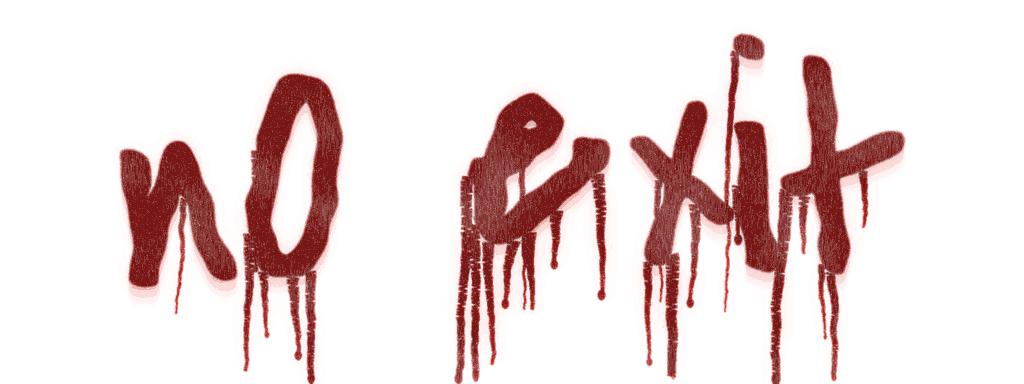
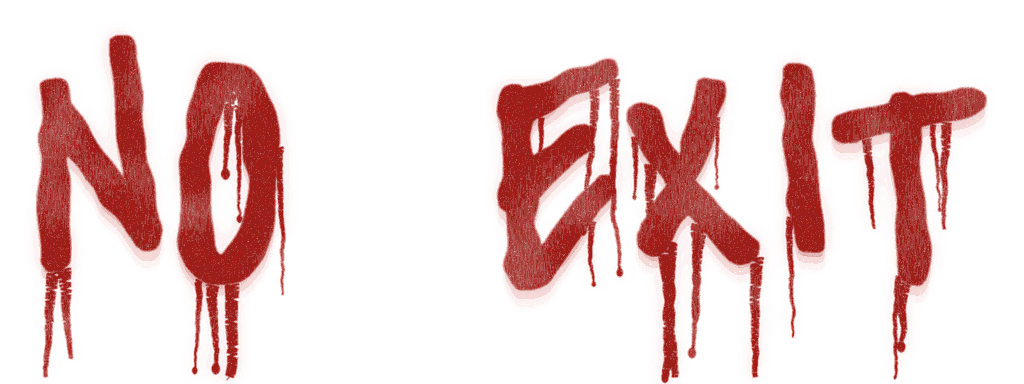
Kymlinge Station: cold teal look, wet floor, litter and puddles, readable red graffiti
- Colour: teal fog and ambient light, cooler tubes and mist, soft-light
  grade over the view, exit-sign light shifted from green to teal
- Floor: wet concrete sheen; torn dirty paper, crumpled balls and cans in
  most cells (instanced), dark glossy puddles that catch the lights
- Red graffiti: regenerated in upper case with thicker strokes and a
  brighter red, 20% larger on the wall and faintly self-lit
- Name plates no longer cover graffiti

Claude-Session: https://claude.ai/code/session_01Ufeu32NHvdoiceaeLe6DXJ

diff --git a/kymlinge-station/index.html b/kymlinge-station/index.html
@@ -103,6 +103,8 @@ h1 {
 @media (max-width: 560px) { .view { aspect-ratio: 3 / 4; } }
 #gl { position: absolute; inset: 0; }
 #gl canvas { display: block; width: 100%; height: 100%; }
+#grade { position: absolute; inset: 0; pointer-events: none; mix-blend-mode: soft-light;
+  background: radial-gradient(ellipse at 50% 40%, rgba(120,200,230,0.28), rgba(10,40,60,0.55) 70%, rgba(0,12,20,0.75)); }
 .lid {
   position: absolute; inset: 0; pointer-events: none; opacity: 0;
   background: radial-gradient(ellipse at center, #1c0605 0%, #000 78%);
@@ -188,6 +190,7 @@ h1 {
   <div class="stage" id="stage">
     <div class="view" id="view">
       <div id="gl"></div>
+      <div id="grade"></div>
       <div class="vig" id="vig"></div>
       <div class="lid" id="lid"></div>
       <div class="dir" id="dir" aria-hidden="true"><i id="dirArrow"></i><span>It</span></div>
@@ -259,19 +262,20 @@ Look at it to freeze it. Back away to win some distance.</p>
   } catch (e) { fail("This browser could not start WebGL."); return; }
   renderer.setPixelRatio(Math.min(window.devicePixelRatio || 1, 1.5));
   renderer.outputEncoding = THREE.sRGBEncoding;
-  renderer.setClearColor(0x000000);
+  renderer.setClearColor(0x02080b);
   el.gl.appendChild(renderer.domElement);
 
   var scene = new THREE.Scene();
-  scene.fog = new THREE.FogExp2(0x030504, 0.125);
+  var FOG_COL = 0x0d222a, FOG_DEN = 0.095, AMB_COL = 0x1d3846, AMB_K = 0.75;   // cold teal haze
+  scene.fog = new THREE.FogExp2(FOG_COL, FOG_DEN);
   var camera = new THREE.PerspectiveCamera(72, 16 / 9, 0.1, 60);
   camera.rotation.order = "YXZ";
   scene.add(camera);
-  var ambLight = new THREE.AmbientLight(0x101614, 0.4); scene.add(ambLight);
+  var ambLight = new THREE.AmbientLight(AMB_COL, AMB_K); scene.add(ambLight);
 
   var pool = [];
   for (var li = 0; li < 8; li++) {
-    var pl = new THREE.PointLight(0x2bff88, 2.2, 13, 1.6);
+    var pl = new THREE.PointLight(0x36d6c8, 2.2, 13, 1.6);
     pl.position.set(0, -50, 0); scene.add(pl); pool.push(pl);
   }
 
@@ -360,7 +364,7 @@ Look at it to freeze it. Back away to win some distance.</p>
   }
   var wallTex = sheetTex(TEXDATA.wall, true), floorTex = sheetTex(TEXDATA.floor, true), ceilTex = sheetTex(TEXDATA.ceil, true), woodTex = sheetTex(TEXDATA.wood, false);
   var wallMat = new THREE.MeshStandardMaterial({ map: wallTex, color: 0x626262, roughness: 0.92, metalness: 0 });
-  var floorMat = new THREE.MeshStandardMaterial({ map: floorTex, color: 0x5e5e5e, roughness: 0.42, metalness: 0.18 });
+  var floorMat = new THREE.MeshStandardMaterial({ map: floorTex, color: 0x56605f, roughness: 0.26, metalness: 0.32 });   // wet concrete
   var ceilMat = new THREE.MeshStandardMaterial({ map: ceilTex, roughness: 1, metalness: 0 });
   var woodMat2 = new THREE.MeshStandardMaterial({ map: woodTex, roughness: 0.9, emissive: 0x0d0805 });
   var redLampMat = new THREE.MeshBasicMaterial({ color: 0xff3a22 });
@@ -384,7 +388,10 @@ Look at it to freeze it. Back away to win some distance.</p>
     if (!grafCache[key]) {
       var t = texLoader.load("graffiti/" + key + ".png");
       t.encoding = THREE.sRGBEncoding; t.anisotropy = 4;
-      grafCache[key] = new THREE.MeshStandardMaterial({ map: t, transparent: true, roughness: 1, depthWrite: false, polygonOffset: true, polygonOffsetFactor: -2 });
+      var red = paint === "blood";
+      // red paint gets a faint glow of its own so it stays readable in the dark
+      grafCache[key] = new THREE.MeshStandardMaterial({ map: t, transparent: true, roughness: red ? 0.6 : 1, depthWrite: false, polygonOffset: true, polygonOffsetFactor: -2,
+        emissive: red ? 0xffffff : 0x000000, emissiveMap: red ? t : null, emissiveIntensity: red ? 0.32 : 0 });
     }
     return grafCache[key];
   }
@@ -836,7 +843,7 @@ Look at it to freeze it. Back away to win some distance.</p>
     [-0.8, 0.8].forEach(function (o) { addBox(g, benchMat, 0.06, 0.45, 0.4, bx, 0.22, zc + o); });
     blockers.push({ x0: 3.0, x1: 5.95, z0: zA, z1: zB });
     blockers.push({ x0: bx - 0.35, x1: bx + 0.45, z0: zc - 1.0, z1: zc + 1.0 });
-    lightSrc.push({ x: 5.0, y: 2.7, z: zc, c: 0xcfe6df, k: 1.5, dist: 11, tube: true });
+    lightSrc.push({ x: 5.0, y: 2.7, z: zc, c: 0xa8dcf0, k: 1.7, dist: 11, tube: true });
     startBench = { x: bx, z: zc };
     levelGroup.add(g);
   }
@@ -1055,8 +1062,8 @@ Look at it to freeze it. Back away to win some distance.</p>
   function leaveCity() {
     if (!cityMode) return;
     cityMode = false; camY = 0; if (cityGroup) cityGroup.visible = false; if (levelGroup) levelGroup.visible = true;
-    scene.fog.color.setHex(0x030504); scene.fog.density = 0.125; renderer.setClearColor(0x000000);
-    camera.far = 60; camera.updateProjectionMatrix(); ambLight.color.setHex(0x101614); ambLight.intensity = 0.4;
+    scene.fog.color.setHex(FOG_COL); scene.fog.density = FOG_DEN; renderer.setClearColor(0x02080b);
+    camera.far = 60; camera.updateProjectionMatrix(); ambLight.color.setHex(AMB_COL); ambLight.intensity = AMB_K;
   }
   function cityStep(dt) {
     cityT += dt;
@@ -1071,6 +1078,70 @@ Look at it to freeze it. Back away to win some distance.</p>
     cityBlink.forEach(function (b, bi) { b.material.opacity = (Math.sin(tt * 5 + bi) > 0.2) ? 0.9 : 0.08; });
     lightT -= dt; if (lightT <= 0) { updateLights(); lightT = 0.12; }
     updateRig(entRig || { t: 0, skins: [], bones: {}, root: ent, mixer: { update: function () {} } }, dt * 0.5, false);
+  }
+
+  /* ---------- Litter: torn paper, crumpled balls, cans, puddles ---------- */
+  function paperTex(kind) {
+    var t = canvasTex(128, 128, function (c, w, h) {
+      c.clearRect(0, 0, w, h);
+      // torn outline
+      c.beginPath();
+      var pts = 14;
+      for (var i = 0; i < pts; i++) {
+        var a = i / pts * Math.PI * 2, r = 0.36 + Math.random() * 0.12 + (i % 3 === 0 ? -0.08 * Math.random() : 0);
+        var px2 = w / 2 + Math.cos(a) * w * r * (kind === 1 ? 1.15 : 1), py2 = h / 2 + Math.sin(a) * h * r * (kind === 1 ? 0.75 : 1);
+        if (i === 0) c.moveTo(px2, py2); else c.lineTo(px2, py2);
+      }
+      c.closePath(); c.save(); c.clip();
+      var base = ["#b9b2a0", "#a49a82", "#c4c0b4", "#8f8774"][kind];
+      c.fillStyle = base; c.fillRect(0, 0, w, h);
+      // newsprint lines on two of the kinds
+      if (kind === 0 || kind === 2) { c.fillStyle = "rgba(40,36,30,0.45)"; for (var y = 18; y < h - 14; y += 6) { var cut = Math.random() * 40; c.fillRect(16, y, w * 0.38 - cut * 0.3, 2); c.fillRect(w * 0.54, y, w * 0.32 - cut * 0.2, 2); } }
+      if (kind === 3) { c.fillStyle = "rgba(30,40,60,0.6)"; c.fillRect(26, 30, 70, 14); }
+      // dirt, footprints, water stains
+      for (var k = 0; k < 9; k++) { var g = c.createRadialGradient(Math.random() * w, Math.random() * h, 1, Math.random() * w, Math.random() * h, 20 + Math.random() * 40); g.addColorStop(0, "rgba(40,32,22,0.55)"); g.addColorStop(1, "rgba(40,32,22,0)"); c.fillStyle = g; c.fillRect(0, 0, w, h); }
+      for (var d = 0; d < 260; d++) { c.fillStyle = "rgba(20,16,10," + (Math.random() * 0.35).toFixed(2) + ")"; c.fillRect(Math.random() * w, Math.random() * h, 2, 2); }
+      c.restore();
+    });
+    return t;
+  }
+  var paperMats = null, ballMat = null, canMat = null, puddleTex = null, puddleMat2 = null;
+  function litterMats() {
+    if (paperMats) return;
+    paperMats = [0, 1, 2, 3].map(function (k) { return new THREE.MeshStandardMaterial({ map: paperTex(k), transparent: true, alphaTest: 0.5, roughness: 0.95, side: THREE.DoubleSide, polygonOffset: true, polygonOffsetFactor: -1 }); });
+    ballMat = new THREE.MeshStandardMaterial({ color: 0x9c9482, roughness: 1, flatShading: true });
+    canMat = new THREE.MeshStandardMaterial({ color: 0x6d7478, roughness: 0.35, metalness: 0.8 });
+    puddleTex = canvasTex(128, 128, function (c, w, h) {
+      c.clearRect(0, 0, w, h);
+      for (var i = 0; i < 7; i++) { var x = w / 2 + (Math.random() - 0.5) * 50, y = h / 2 + (Math.random() - 0.5) * 50, r = 18 + Math.random() * 26;
+        var g = c.createRadialGradient(x, y, r * 0.4, x, y, r); g.addColorStop(0, "rgba(255,255,255,1)"); g.addColorStop(1, "rgba(255,255,255,0)"); c.fillStyle = g; c.fillRect(0, 0, w, h); }
+    });
+    puddleMat2 = new THREE.MeshStandardMaterial({ color: 0x030607, roughness: 0.02, metalness: 0.2, transparent: true, alphaMap: puddleTex, opacity: 0.62, depthWrite: false, polygonOffset: true, polygonOffsetFactor: -2 });
+  }
+  function addLitter(L) {
+    litterMats();
+    var m4 = new THREE.Matrix4(), q = new THREE.Quaternion(), e = new THREE.Euler(), v = new THREE.Vector3(), sc = new THREE.Vector3();
+    function inst(geo, mat, list, set) {
+      if (!list.length) return;
+      var im = new THREE.InstancedMesh(geo, mat, list.length);
+      list.forEach(function (it, i) { set(it, i); im.setMatrixAt(i, m4.compose(v, q, sc)); });
+      im.instanceMatrix.needsUpdate = true; levelGroup.add(im);
+    }
+    L.paper.forEach(function (list, k) {
+      inst(new THREE.PlaneGeometry(1, 1), paperMats[k], list, function (it, i) {
+        v.set(it[0], 0.006 + (i % 7) * 0.0012, it[1]);
+        e.set(-Math.PI / 2 + (Math.random() - 0.5) * 0.25, 0, it[2]); q.setFromEuler(e); sc.set(it[3], it[3], 1);
+      });
+    });
+    inst(new THREE.IcosahedronGeometry(1, 0), ballMat, L.ball, function (it) {
+      v.set(it[0], it[2] * 0.8, it[1]); e.set(Math.random() * 3, Math.random() * 3, Math.random() * 3); q.setFromEuler(e); sc.set(it[2] * 1.2, it[2], it[2] * 1.1);
+    });
+    inst(new THREE.CylinderGeometry(0.033, 0.033, 0.12, 10), canMat, L.can, function (it) {
+      v.set(it[0], 0.033, it[1]); e.set(0, it[2], Math.PI / 2); q.setFromEuler(e); sc.set(1, Math.random() < 0.4 ? 0.6 : 1, 1);
+    });
+    inst(new THREE.PlaneGeometry(1, 1), puddleMat2, L.pud, function (it) {
+      v.set(it[0], 0.009, it[1]); e.set(-Math.PI / 2, 0, it[2]); q.setFromEuler(e); sc.set(it[3], it[4], 1);
+    });
   }
 
   function buildLevel(hunt) {
@@ -1262,6 +1333,24 @@ Look at it to freeze it. Back away to win some distance.</p>
         }
       }
     })();
+    // Litter on the floor: torn dirty paper, crumpled balls, cans; dark reflective puddles.
+    var litter = { paper: [[], [], [], []], ball: [], can: [], pud: [] };
+    function litterCell(cx0, cz0, n) {
+      for (var q = 0; q < n; q++) {
+        var nearWall = Math.random() < 0.6, ox = (Math.random() - 0.5) * (nearWall ? 2.6 : 1.6), oz = (Math.random() - 0.5) * (nearWall ? 2.6 : 1.6);
+        litter.paper[Math.floor(Math.random() * 4)].push([cx0 + ox, cz0 + oz, Math.random() * 6.28, 0.3 + Math.random() * 0.4]);
+      }
+      if (Math.random() < 0.45) litter.ball.push([cx0 + (Math.random() - 0.5) * 2.4, cz0 + (Math.random() - 0.5) * 2.4, 0.05 + Math.random() * 0.05]);
+      if (Math.random() < 0.25) litter.can.push([cx0 + (Math.random() - 0.5) * 2.4, cz0 + (Math.random() - 0.5) * 2.4, Math.random() * 6.28]);
+      if (Math.random() < 0.35) litter.pud.push([cx0 + (Math.random() - 0.5) * 1.4, cz0 + (Math.random() - 0.5) * 1.4, Math.random() * 6.28, 0.9 + Math.random() * 1.3, 0.6 + Math.random() * 0.9]);
+    }
+    for (z = 1; z < gh - 1; z++) for (x = 1; x < gw - 1; x++) {
+      if (grid[z][x] !== 0 || trainSet[z * 1000 + x]) continue;
+      if (x <= 1 && z >= cy - 2 && z <= cy + 2) continue;            // the track bed in the wake-up room
+      if (railHall && x >= railHall.xa && x <= railHall.xb && z === railHall.z0 + 1) continue;
+      litterCell((x + 0.5) * CELL, (z + 0.5) * CELL, Math.random() < 0.85 ? 4 + Math.floor(Math.random() * 9) : 1);
+    }
+    addLitter(litter);
     // Props from the real station: wooden barriers along the walls, puddles, dead fluorescent tubes.
     var pcount = 0;
     for (z = 1; z < gh - 1; z++) for (x = 1; x < gw - 1; x++) {
@@ -1304,7 +1393,7 @@ Look at it to freeze it. Back away to win some distance.</p>
         levelGroup.add(tb);
         if (lit) {
           var gs = new THREE.Sprite(tubeGlowMat); gs.scale.set(2.6, 1.4, 1); gs.position.copy(tb.position); gs.position.y -= 0.2; levelGroup.add(gs);
-          lightSrc.push({ x: tb.position.x, y: WALL_H - 0.4, z: tb.position.z, c: 0xcfe6ff, k: 1.9, dist: 12, tube: true });
+          lightSrc.push({ x: tb.position.x, y: WALL_H - 0.4, z: tb.position.z, c: 0x9fd6f0, k: 2.1, dist: 12, tube: true });
         }
       }
     }
@@ -1315,7 +1404,7 @@ Look at it to freeze it. Back away to win some distance.</p>
       var key = gx + "," + gz + "," + di;
       if (usedFace[key]) return false;
       usedFace[key] = true;
-      var dx = DIRS[di][0], dz = DIRS[di][1], gwid = w || 2.4;
+      var dx = DIRS[di][0], dz = DIRS[di][1], gwid = (w || 2.4) * (paint === "blood" ? 1.2 : 1);
       var gm = new THREE.Mesh(new THREE.PlaneGeometry(gwid, gwid * 0.375), graffitiMat(name, paint));
       gm.position.set((gx + 0.5) * CELL + dx * (CELL / 2 + 0.014), y, (gz + 0.5) * CELL + dz * (CELL / 2 + 0.014));
       gm.rotation.y = Math.atan2(dx, dz); gm.rotation.z = (Math.random() - 0.5) * 0.06;
@@ -1362,7 +1451,8 @@ Look at it to freeze it. Back away to win some distance.</p>
       var wx = 1 + Math.floor(Math.random() * (gw - 2)), wz = 1 + Math.floor(Math.random() * (gh - 2));
       if (grid[wz][wx] !== 1) continue;
       var di = Math.floor(Math.random() * 4), pdx = DIRS[di][0], pdz = DIRS[di][1];
-      if (grid[wz + pdz][wx + pdx] !== 0) continue;
+      if (grid[wz + pdz][wx + pdx] !== 0 || usedFace[wx + "," + wz + "," + di]) continue;   // never over graffiti
+      usedFace[wx + "," + wz + "," + di] = true;
       var nm = (p > 0.5 && Math.random() < 0.4) ? "Kymlinge" : NAMES[Math.floor(Math.random() * NAMES.length)];
       var pt = plateTexture(corrupt(nm, p)); texKeep.push(pt);
       var pm = new THREE.Mesh(new THREE.PlaneGeometry(1.6, 0.5), new THREE.MeshStandardMaterial({ map: pt, roughness: 0.9 }));
@@ -1375,7 +1465,7 @@ Look at it to freeze it. Back away to win some distance.</p>
   }
 
   var poolK = [], poolTube = [];
-  var mist = [], mistMat = new THREE.SpriteMaterial({ map: fogTex(), color: 0x8a9a98, depthWrite: false, transparent: true, opacity: 0.2 });
+  var mist = [], mistMat = new THREE.SpriteMaterial({ map: fogTex(), color: 0x7fb4c4, depthWrite: false, transparent: true, opacity: 0.26 });
   function mistTick(tt) {
     for (var i = 0; i < mist.length; i++) { var m = mist[i], u = m.userData; m.position.x = u.bx + Math.sin(tt * u.sp + u.ph) * 0.9; m.position.z = u.bz + Math.cos(tt * u.sp * 0.8 + u.ph) * 0.7; }
   }
@@ -1386,7 +1476,7 @@ Look at it to freeze it. Back away to win some distance.</p>
       if (arr[i]) {
         var src = arr[i].s;
         pool[i].position.set(src.x, src.y - 0.3, src.z);
-        pool[i].color.setHex(src.c || 0x2bff88); pool[i].distance = src.dist || 13;
+        pool[i].color.setHex(src.c || 0x36d6c8); pool[i].distance = src.dist || 13;
         poolK[i] = src.k || 1.5; poolTube[i] = !!src.tube;
       } else { pool[i].position.set(0, -50, 0); poolK[i] = 0; }
       pool[i].intensity = poolK[i] * (poolTube[i] ? tubeFlick : 0.7 + 0.3 * tubeFlick);
